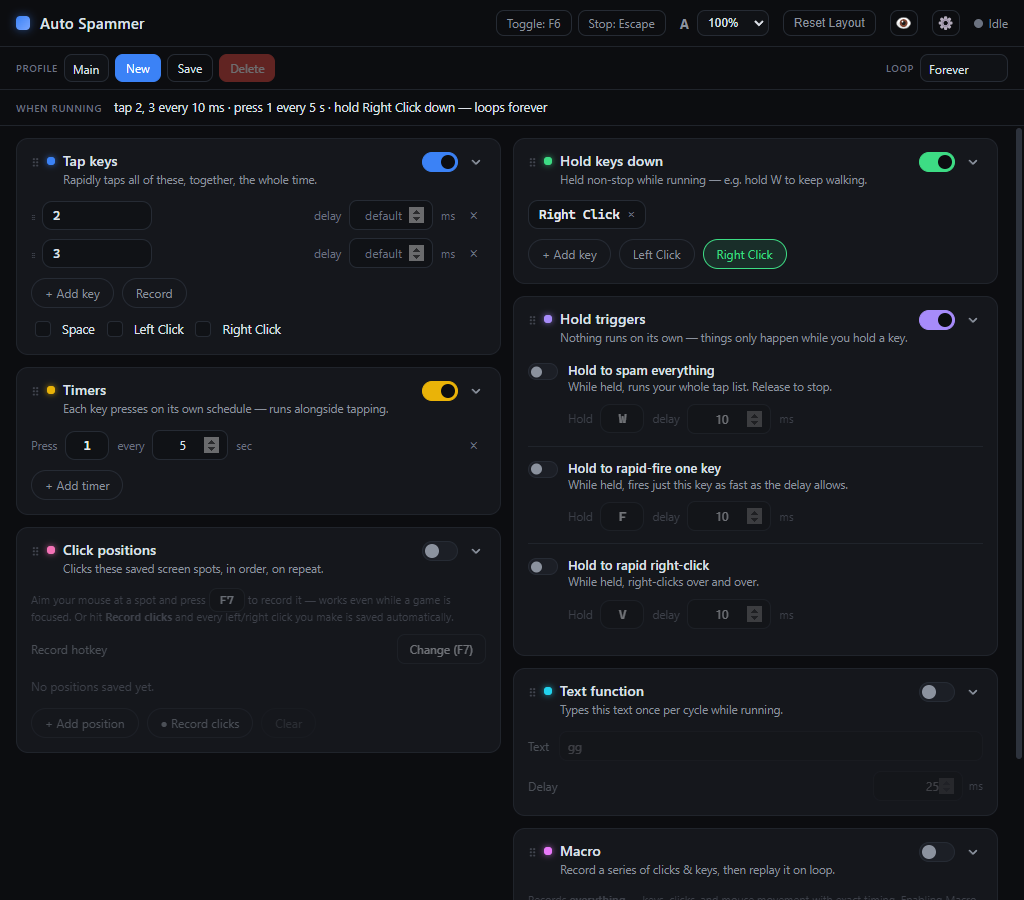
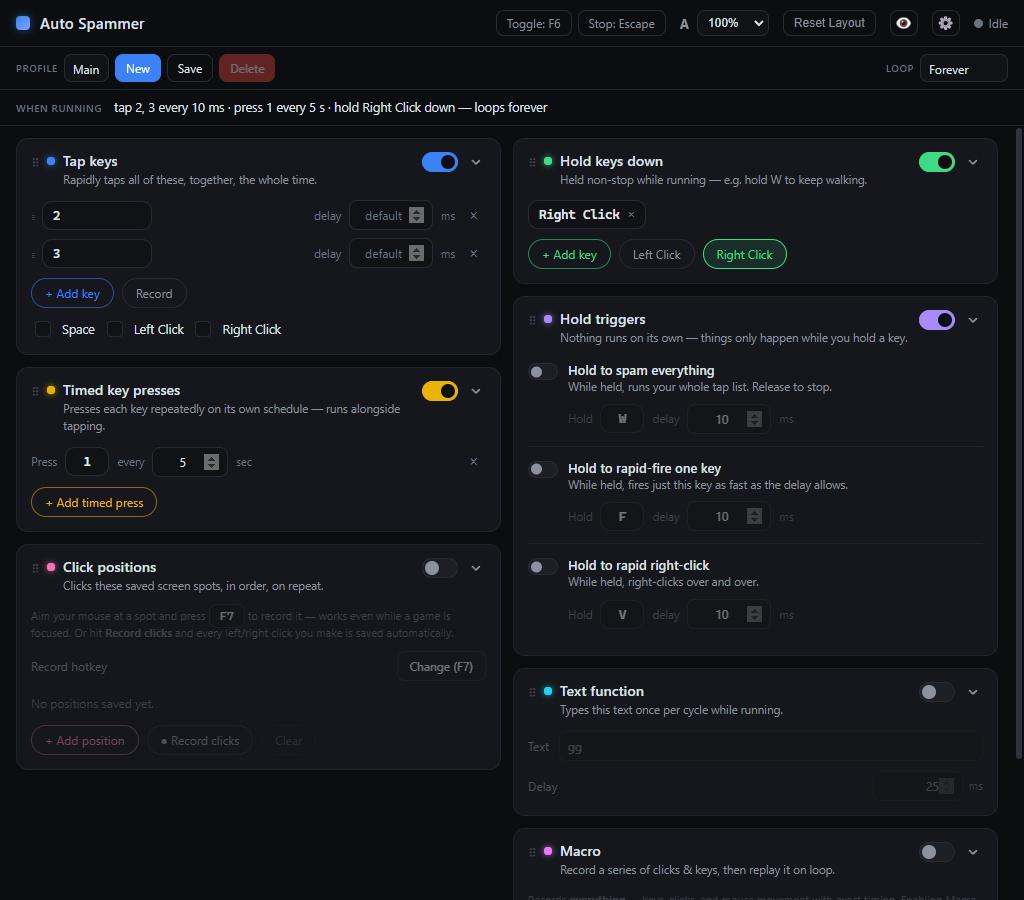
Accent-colored add buttons; rename Timers to "Timed key presses"
- Each card's primary "+ Add …" button now uses the section accent for
  its text and border (blue Tap keys, yellow Timed key presses, green
  Hold keys down, pink Click positions).
- The Timers card is now "Timed key presses" everywhere it shows (title,
  description, empty state, "+ Add timed press", Sections manager) —
  display only, the stored section id and profile data are unchanged.
- Bump to 1.35.0.

diff --git a/tests/e2e/app.spec.ts b/tests/e2e/app.spec.ts
@@ -42,7 +42,7 @@ test('main process is reachable via evaluate()', async () => {
 test('renders all seven cards with accent dots and descriptions', async () => {
   for (const heading of [
     'Tap keys',
-    'Timers',
+    'Timed key presses',
     'Hold keys down',
     'Hold triggers',
     'Click positions',
@@ -59,6 +59,17 @@ test('renders all seven cards with accent dots and descriptions', async () => {
   await expect(section('Tap keys').locator('.section__desc')).toHaveText(
     'Rapidly taps all of these, together, the whole time.'
   )
+  // Each card's "+ Add …" button carries the section accent styling.
+  for (const [heading, name] of [
+    ['Tap keys', '+ Add key'],
+    ['Timed key presses', '+ Add timed press'],
+    ['Hold keys down', '+ Add key'],
+    ['Click positions', '+ Add position']
+  ] as const) {
+    await expect(section(heading).getByRole('button', { name, exact: true })).toHaveClass(
+      /chipbtn--accent/
+    )
+  }
   // The old section names are gone.
   for (const gone of ['Keys to Spam', 'Hold Actions', 'Spam Keys', 'Periodic Actions']) {
     await expect(win.getByRole('heading', { name: gone, exact: true })).toHaveCount(0)
@@ -105,13 +116,13 @@ test('Tap keys: Space / Left Click / Right Click checkboxes add to the spam list
   await expect(keys.getByText('One key at a time (sequence)')).toHaveCount(0)
 })
 
-test('Timers: + Add timer adds a Press/every row', async () => {
-  const timers = section('Timers')
+test('Timed key presses: + Add timed press adds a Press/every row', async () => {
+  const timers = section('Timed key presses')
   await expect(timers.locator('.section__desc')).toContainText('own schedule')
   const rows = timers.locator('.timerrow')
   const before = await rows.count()
 
-  await timers.getByRole('button', { name: '+ Add timer' }).click()
+  await timers.getByRole('button', { name: '+ Add timed press' }).click()
   await expect(rows).toHaveCount(before + 1)
   await expect(rows.last()).toContainText('Press')
   await expect(rows.last()).toContainText('every')

diff --git a/src/renderer/src/components/TimersCard.tsx b/src/renderer/src/components/TimersCard.tsx
@@ -8,7 +8,7 @@ import { SectionToggle } from './SectionToggle'
 import { CaptureButton } from './CaptureButton'
 import { prettyName } from '../keycapture'
 
-/** "Timers" card: keys/buttons pressed on their own schedules during a run. */
+/** "Timed key presses" card: keys/buttons pressed on their own schedules during a run. */
 export function TimersCard(): JSX.Element {
   const { activeProfile, updateProfile } = useStore()
   if (!activeProfile) return <></>
@@ -33,8 +33,8 @@ export function TimersCard(): JSX.Element {
 
   return (
     <Section
-      title="Timers"
-      description="Each key presses on its own schedule — runs alongside tapping."
+      title="Timed key presses"
+      description="Presses each key repeatedly on its own schedule — runs alongside tapping."
       accent={SECTION_ACCENTS.timers}
       dim={!enabled}
       right={
@@ -46,7 +46,7 @@ export function TimersCard(): JSX.Element {
       }
     >
       <div className="keylist">
-        {entries.length === 0 && <p className="muted">No timers yet — add one below.</p>}
+        {entries.length === 0 && <p className="muted">No timed presses yet — add one below.</p>}
         {entries.map((e) => (
           <div className="timerrow" key={e.id}>
             <span className="keyrow__label">Press</span>
@@ -82,8 +82,8 @@ export function TimersCard(): JSX.Element {
       </div>
 
       <div className="keylist__actions">
-        <button type="button" className="chipbtn" onClick={addEntry}>
-          + Add timer
+        <button type="button" className="chipbtn chipbtn--accent" onClick={addEntry}>
+          + Add timed press
         </button>
       </div>
     </Section>

diff --git a/src/renderer/src/styles.css b/src/renderer/src/styles.css
@@ -868,6 +868,16 @@ button.keychip:hover,
   opacity: 0.4;
   cursor: not-allowed;
 }
+/* The card's primary "+ Add …" button: colored with the section accent. */
+.chipbtn--accent {
+  color: var(--accent, var(--blue));
+  border-color: color-mix(in srgb, var(--accent, var(--blue)) 55%, transparent);
+}
+.chipbtn--accent:hover {
+  color: var(--accent, var(--blue));
+  border-color: var(--accent, var(--blue));
+  background: color-mix(in srgb, var(--accent, var(--blue)) 10%, transparent);
+}
 /* Recording state reuses the pulse animation below. */
 .chipbtn--recording {
   color: #ffb3ac;

diff --git a/src/renderer/src/components/HoldKeysCard.tsx b/src/renderer/src/components/HoldKeysCard.tsx
@@ -82,7 +82,11 @@ export function HoldKeysCard(): JSX.Element {
       </div>
 
       <div className="keylist__actions">
-        <button type="button" className="chipbtn" onClick={() => setKeys([...keys, ''])}>
+        <button
+          type="button"
+          className="chipbtn chipbtn--accent"
+          onClick={() => setKeys([...keys, ''])}
+        >
           + Add key
         </button>
         <button

diff --git a/src/shared/sections.ts b/src/shared/sections.ts
@@ -28,7 +28,7 @@ export type SectionId = (typeof SECTION_IDS)[number]
 /** Human-readable names, matching each section's on-screen header title. */
 export const SECTION_LABELS: Record<string, string> = {
   keys: 'Tap keys',
-  timers: 'Timers',
+  timers: 'Timed key presses',
   holdKeys: 'Hold keys down',
   holdTriggers: 'Hold triggers',
   clickPositions: 'Click positions',

diff --git a/src/renderer/src/components/ClickPositionsPanel.tsx b/src/renderer/src/components/ClickPositionsPanel.tsx
@@ -108,7 +108,7 @@ export function ClickPositionsPanel(): JSX.Element {
       <div className="keylist__actions">
         <button
           type="button"
-          className="chipbtn"
+          className="chipbtn chipbtn--accent"
           title="Save the current mouse position"
           disabled={recordingPositions}
           onClick={() => void addCurrentPosition()}

diff --git a/src/renderer/src/components/TapKeysCard.tsx b/src/renderer/src/components/TapKeysCard.tsx
@@ -69,7 +69,7 @@ export function TapKeysCard(): JSX.Element {
       </div>
 
       <div className="keylist__actions">
-        <button type="button" className="chipbtn" onClick={addKey}>
+        <button type="button" className="chipbtn chipbtn--accent" onClick={addKey}>
           + Add key
         </button>
         <button

diff --git a/README.md b/README.md
@@ -19,7 +19,7 @@
 
 <!-- DOWNLOAD BUTTONS -->
 <p align="center">
-  <a href="https://github.com/Scarmonit/AutoSpammer/releases/latest/download/AutoSpammer-Portable-1.34.0.exe">
+  <a href="https://github.com/Scarmonit/AutoSpammer/releases/latest/download/AutoSpammer-Portable-1.35.0.exe">
     <img src="https://img.shields.io/badge/Download%20Latest%20Version-Windows-3b82f6?style=for-the-badge&logo=windows&logoColor=white" alt="Download Latest Version (Windows)" height="46" />
   </a>
   &nbsp;
@@ -40,8 +40,8 @@ No setup or extra tools required — each option is a single file you just run.
 
 | Option | Best for | File |
 | --- | --- | --- |
-| **Portable** | Easiest — just run it. Nothing is installed. | **[AutoSpammer-Portable-1.34.0.exe](https://github.com/Scarmonit/AutoSpammer/releases/latest/download/AutoSpammer-Portable-1.34.0.exe)** |
-| **Installer** | Adds Desktop and Start-menu shortcuts. | **[AutoSpammer-Setup-1.34.0.exe](https://github.com/Scarmonit/AutoSpammer/releases/latest/download/AutoSpammer-Setup-1.34.0.exe)** |
+| **Portable** | Easiest — just run it. Nothing is installed. | **[AutoSpammer-Portable-1.35.0.exe](https://github.com/Scarmonit/AutoSpammer/releases/latest/download/AutoSpammer-Portable-1.35.0.exe)** |
+| **Installer** | Adds Desktop and Start-menu shortcuts. | **[AutoSpammer-Setup-1.35.0.exe](https://github.com/Scarmonit/AutoSpammer/releases/latest/download/AutoSpammer-Setup-1.35.0.exe)** |
 
 You can also open the **[latest release page](https://github.com/Scarmonit/AutoSpammer/releases/latest)** and grab either file under **Assets**.
 
@@ -87,7 +87,7 @@ You can also open the **[latest release page](https://github.com/Scarmonit/AutoS
 - **Drag-and-drop sections** — grab any section header to reorder it, even across the two columns. A **Reset Layout** button restores the default order.
 - **Resizable sections** — drag the splitter between two panels to resize them; double-click to reset.
 - **Collapsible sections** — collapse any panel to just its title bar with the header chevron.
-- **Clean card-based UI** — every feature is its own rounded card with a colored accent dot, a friendly one-line description, and its own **toggle switch**: Tap keys, Timers, Hold keys down, Hold triggers, Click positions, Text function, and Macro.
+- **Clean card-based UI** — every feature is its own rounded card with a colored accent dot, a friendly one-line description, and its own **toggle switch**: Tap keys, Timed key presses, Hold keys down, Hold triggers, Click positions, Text function, and Macro.
 - **WHEN RUNNING summary bar** — a live plain-English readout of what your setup will do (e.g. *"tap 2, 3 every 10 ms · press 1 every 5 s — loops forever"*), including only what's switched on. Toggle it — and the hint text — in **Options → Display**.
 - **Independent enabling** — a switched-off card greys out (keeping its inner settings) and is skipped on the next run; switch it back on and everything resumes as it was.
 - **UI scale** — a top-bar dropdown zooms the whole app (100–200%) for readability; double-click to type a custom percentage.
@@ -101,7 +101,7 @@ You can also open the **[latest release page](https://github.com/Scarmonit/AutoS
 - **Click positions** — move to and click exact screen spots (left or right) every cycle.
 - **Loop** — repeat forever, once, or a set number of times (in the header toolbar).
 - **Hold keys down** + **Hold triggers** — keys/buttons held for the whole run, plus three hold-to-act modes that run only while you physically hold their key or button.
-- **Timers** — keys/buttons pressed on their own schedules, alongside the tapping.
+- **Timed key presses** — keys/buttons pressed on their own schedules, alongside the tapping.
 - **Profiles** — save and switch between different setups from the header toolbar; everything is remembered.
 - **Global hotkeys** that work even while a game is focused, plus an **Esc** panic stop.
 - **System tray** — runs in the background with close-to-tray.
@@ -115,7 +115,7 @@ You can also open the **[latest release page](https://github.com/Scarmonit/AutoS
   <tr>
     <td width="50%" valign="top">
       <img src="docs/showcase-1.png" alt="Main overview" /><br/>
-      <sub><b>Main window</b> — Tap keys, Timers, Hold keys down, and Hold triggers cards
+      <sub><b>Main window</b> — Tap keys, Timed key presses, Hold keys down, and Hold triggers cards
       with their accent switches, plus the live <b>WHEN RUNNING</b> summary bar and the
       Profile picker, Loop control, and rebindable hotkeys in the header.</sub>
     </td>
@@ -135,9 +135,9 @@ You can also open the **[latest release page](https://github.com/Scarmonit/AutoS
 
 The **Tap keys** card rapidly taps everything in its list, together, the whole time a run is active. Keys show as chips, each with its own optional delay. Use **+ Add key** (or **Record**) to build the list, and check **Space**, **Left Click**, or **Right Click** to include the spacebar or a mouse button — uncheck to stop tapping it. The checkboxes are saved with the profile.
 
-### Timers
+### Timed key presses
 
-The **Timers** card presses each key or mouse button on its **own schedule** (e.g. **1** every 5s *and* **MB4** every 2s), running alongside the tapping. Each row reads *Press [key] every [n] sec* — click the key chip to capture a new binding — and **+ Add timer** adds another.
+The **Timed key presses** card presses each key or mouse button on its **own schedule** (e.g. **1** every 5s *and* **MB4** every 2s), running alongside the tapping. Each row reads *Press [key] every [n] sec* — click the key chip to capture a new binding — and **+ Add timed press** adds another.
 
 ### Hold keys down
 
